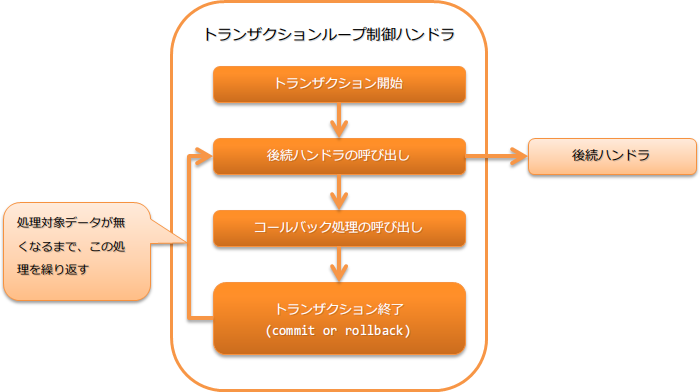
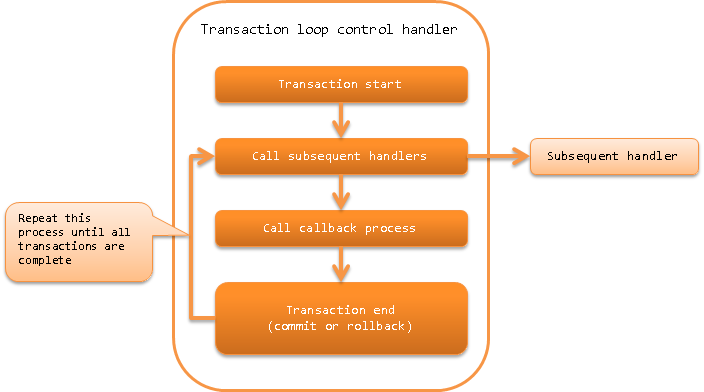
トランザクションループ制御ハンドラページを英語化

diff --git a/en/application_framework/application_framework/handlers/batch/loop_handler.rst b/en/application_framework/application_framework/handlers/batch/loop_handler.rst
@@ -1,28 +1,30 @@
 .. _loop_handler:
 
-トランザクションループ制御ハンドラ
+Transaction Loop Control Handler
 ==================================================
-.. contents:: 目次
+.. contents:: Table of contents
   :depth: 3
   :local:
 
-本ハンドラは、データリーダ上に処理対象のデータが存在する間、後続ハンドラの処理を繰り返し実行するとともに、トランザクション制御を行ない、一定の繰り返し回数ごとにトランザクションをコミットする。
-トランザクションのコミット間隔を大きくすることで、バッチ処理のスループットを向上させることができる。
+This handler, in addition to repeatedly executing the processing of the subsequent handlers,
+performs transaction control, and commits the transaction at a certain number of repetitions,
+while the data to be processed is present in the data reader.
+By increasing the transaction commit interval, it is possible to improve the throughput of batch processing.
 
-* トランザクションの開始
-* トランザクションの終了(コミットやロールバック)
-* トランザクションの終了時のコールバック
+* Start a transaction
+* End a transaction (commit or rollback)
+* Callback at the end of the transaction
 
-処理の流れは以下のとおり。
+The process flow is as follows.
 
 .. image:: ../images/LoopHandler/flow.png
   :scale: 80
 
-ハンドラクラス名
+Handler class name
 --------------------------------------------------
 * :java:extdoc:`nablarch.fw.handler.LoopHandler`
 
-モジュール一覧
+Module list
 --------------------------------------------------
 
 .. code-block:: xml
@@ -37,93 +39,95 @@
     <artifactId>nablarch-core-transaction</artifactId>
   </dependency>
 
-  <!-- データベースに対するトランザクションを制御する場合のみ -->
+  <!-- Only to control transactions to the database -->
   <dependency>
     <groupId>com.nablarch.framework</groupId>
     <artifactId>nablarch-core-jdbc</artifactId>
   </dependency>
 
-制約
+Constraints
 ------------------------------
-:ref:`database_connection_management_handler` より後ろに設定すること
-  データベースに対するトランザクションを制御する場合には、トランザクション管理対象のデータベース接続がスレッド上に存在している必要がある。
+Configure after :ref:`database_connection_management_handler`
+  When controlling a transaction in a database, a database connection for transaction management must exist in the thread.
 
-トランザクション制御対象の設定を行う
+Configure the transaction control target
 --------------------------------------------------
-このハンドラは、 :java:extdoc:`transactionFactory <nablarch.fw.handler.LoopHandler.setTransactionFactory(nablarch.core.transaction.TransactionFactory)>`
-プロパティに設定されたファクトリクラス( :java:extdoc:`TransactionFactory <nablarch.core.transaction.TransactionFactory>` の実装クラス)を使用してトランザクションの制御対象を取得しスレッド上で管理する。
+This handler uses the factory class ( implementation class of :java:extdoc:`TransactionFactory <nablarch.core.transaction.TransactionFactory>`)
+configured in the :java:extdoc:`transactionFactory <nablarch.fw.handler.LoopHandler.setTransactionFactory(nablarch.core.transaction.TransactionFactory)>`
+property to obtain the control target of the transaction and manage it on the thread.
 
-スレッド上で管理する際には、トランザクションを識別するための名前を設定する。
-デフォルトでは、 ``transaction`` が使用されるが、任意の名前を使用する場合は、 :java:extdoc:`transactionName <nablarch.fw.handler.LoopHandler.setTransactionName(java.lang.String)>` プロパティに設定すること。
+When managing on a thread, configure a name to identify the transaction.
+By default, ``transaction`` is used but to use a different name, configure the name in the :java:extdoc:`transactionName <nablarch.fw.handler.LoopHandler.setTransactionName(java.lang.String)>` property.
 
 .. tip::
 
-  :ref:`database_connection_management_handler` で設定したデータベースに対するトランザクション制御を行う場合は、
-  :java:extdoc:`DbConnectionManagementHandler#connectionName <nablarch.common.handler.DbConnectionManagementHandler.setConnectionName(java.lang.String)>` に設定した値と同じ値を
-  :java:extdoc:`transactionName <nablarch.fw.handler.LoopHandler.setTransactionName(java.lang.String)>` プロパティに設定すること。
+  To perform transaction control on the database configured with :ref:`database_connection_management_handler`,
+  configure the same value configured in
+  :java:extdoc:`DbConnectionManagementHandler#connectionName <nablarch.common.handler.DbConnectionManagementHandler.setConnectionName(java.lang.String)>`
+  to :java:extdoc:`transactionName <nablarch.fw.handler.LoopHandler.setTransactionName(java.lang.String)>` property.
 
-  なお、 :java:extdoc:`DbConnectionManagementHandler#connectionName <nablarch.common.handler.DbConnectionManagementHandler.setConnectionName(java.lang.String)>` に値を設定していない場合は、
-  :java:extdoc:`transactionName <nablarch.fw.handler.LoopHandler.setTransactionName(java.lang.String)>` への設定は省略して良い。
+  If a value is not configured in :java:extdoc:`DbConnectionManagementHandler#connectionName <nablarch.common.handler.DbConnectionManagementHandler.setConnectionName(java.lang.String)>`,
+  then the configuration of :java:extdoc:`transactionName <nablarch.fw.handler.LoopHandler.setTransactionName(java.lang.String)>` can be omitted.
 
-以下の設定ファイル例を参考にし、このハンドラの設定を行うこと。
+Configure the handler by referring to the configuration file example given below.
 
 .. code-block:: xml
 
-  <!-- トランザクション制御ハンドラ -->
+  <!-- Transaction control handler -->
   <component class="nablarch.fw.handler.LoopHandler">
     <property name="transactionFactory" ref="databaseTransactionFactory" />
     <property name="transactionName" value="name" />
   </component>
 
-  <!-- データベースに対するトランザクション制御を行う場合には、JdbcTransactionFactoryを設定する -->
+  <!-- When performing the transaction control on the database, configure JdbcTransactionFactory -->
   <component name="databaseTransactionFactory"
       class="nablarch.core.db.transaction.JdbcTransactionFactory">
-    <!-- プロパティの設定は省略 -->
+    <!-- Property configuration is omitted -->
   </component>
 
 .. _loop_handler-commit_interval:
 
-コミット間隔を指定する
+Specify the commit interval
 --------------------------------------------------
-バッチ処理のコミット間隔は、 :java:extdoc:`commitInterval <nablarch.fw.handler.LoopHandler.setCommitInterval(int)>` プロパティに設定する。
-概要で述べたように、コミット間隔を調整することで、バッチ処理のスループットを向上させることができる。
+Configure the commit interval for batch processing to :java:extdoc:`commitInterval <nablarch.fw.handler.LoopHandler.setCommitInterval(int)>`.
+As described in the summary, the throughput of the batch process can be improved by adjusting the commit interval.
 
-以下に設定例を示す。
+A configuration example is shown below.
 
 .. code-block:: xml
 
   <component class="nablarch.fw.handler.LoopHandler">
-    <!-- コミット間隔に1000を指定 -->
+    <!-- Specify 1000 for commit interval -->
     <property name="commitInterval" value="1000" />
   </component>
 
 .. _loop_handler-callback:
 
-トランザクション終了時に任意の処理を実行したい
---------------------------------------------------
-このハンドラでは、後続のハンドラの処理実行後にコールバック処理を行う。
+Execute optional processing at the end of the transaction
+-------------------------------------------------------------------------
+This handler performs a callback process after subsequent handler processes.
 
-コールバックされる処理は、このハンドラより後続に設定されたハンドラの中で、 :java:extdoc:`TransactionEventCallback <nablarch.fw.TransactionEventCallback>` を実装しているものとなる。
-もし、複数のハンドラが  :java:extdoc:`TransactionEventCallback <nablarch.fw.TransactionEventCallback>` を実装している場合は、より手前に設定されているハンドラから順次コールバック処理を実行する。
+The process to be called back is the handler that implements :java:extdoc:`TransactionEventCallback <nablarch.fw.TransactionEventCallback>` among the handlers configured after this handler.
+If multiple handlers implement :java:extdoc:`TransactionEventCallback <nablarch.fw.TransactionEventCallback>`, then the callback process is performed sequentially from the handler that has been configured earlier.
 
-後続ハンドラが正常に処理を終えた場合のコールバック処理は、後続ハンドラと同一のトランザクションで実行される。
-コールバック処理で行った処理は、次回のコミットタイミングで一括コミットされる。
+If a subsequent handler finishes the process normally,
+the callback process is executed in the same transaction as the subsequent handler. The processing performed in the callback process is collectively committed at the timing of the next commit.
 
-後続のハンドラで例外及びエラーが発生し、トランザクションをロールバックする場合には、ロールバック後にコールバック処理を実行する。
-このため、コールバック処理は新しいトランザクションで実行され、コールバックが正常に終了するとコミットされる。
+If an exception or error occurs in the subsequent handlers and the transaction is rolled back,
+the callback process is performed after the rollback. Therefore, the callback process is performed in a new transaction and is committed when the callback has completed successfully.
 
 .. important::
 
-  複数のハンドラがコールバック処理を実装していた場合で、コールバック処理中にエラーや例外が発生した場合は、
-  残りのハンドラに対するコールバック処理は実行しないため注意すること。
+  Note that if multiple handlers have implemented the callback process and an error or exception occurs during the callback process,
+  the callback process for the remaining handlers is not performed.
 
-以下に例を示す。
+An example is shown below.
 
-コールバック処理を行うハンドラの作成
-  以下実装例のように、  :java:extdoc:`TransactionEventCallback <nablarch.fw.TransactionEventCallback>` を実装したハンドラを作成する。
+Creating a handler that performs the callback process
+  Create a handler that implements :java:extdoc:`TransactionEventCallback <nablarch.fw.TransactionEventCallback>` as shown in the following implementation example.
 
-  :java:extdoc:`transactionNormalEnd <nablarch.fw.TransactionEventCallback.transactionNormalEnd(TData-nablarch.fw.ExecutionContext)>` にトランザクションコミット時のコールバック処理を実装し、
-  :java:extdoc:`transactionAbnormalEnd <nablarch.fw.TransactionEventCallback.transactionAbnormalEnd(java.lang.Throwable-TData-nablarch.fw.ExecutionContext)>` にトランザクションロールバック時のコールバック処理を実装する。
+  Implement the callback process at the time of transaction commit in :java:extdoc:`transactionNormalEnd <nablarch.fw.TransactionEventCallback.transactionNormalEnd(TData-nablarch.fw.ExecutionContext)>`,
+  and implement the callback process at the time of transaction rollback in :java:extdoc:`transactionAbnormalEnd <nablarch.fw.TransactionEventCallback.transactionAbnormalEnd(java.lang.Throwable-TData-nablarch.fw.ExecutionContext)>`.
 
   .. code-block:: java
 
@@ -132,32 +136,32 @@
 
       @Override
       public Object handle(Object o, ExecutionContext context) {
-        // ハンドラの処理を実装する
+        // Implement handler processing
         return context.handleNext(o);
       }
 
       @Override
       public void transactionNormalEnd(Object o, ExecutionContext ctx) {
-        // 後続ハンドラが正常終了した場合のコールバック処理を実装する
+        // Implements rollback process if the subsequent handler ends normally
       }
 
       @Override
       public void transactionAbnormalEnd(Throwable e, Object o, ExecutionContext ctx) {
-        // トランザクションロールバック時のコールバック処理を実装する
+        // Implement callback process during transaction rollback
       }
     }
 
-ハンドラキューを構築する
-  以下のように、このハンドラの後続ハンドラにコールバック処理を実装したハンドラを設定する。
+Build a handler queue
+  Configure the handler that implements callback process in the subsequent handler of this handler as follows.
 
   .. code-block:: xml
 
     <list name="handlerQueue">
-      <!-- トランザクション制御ハンドラ -->
+      <!-- Transaction control handler -->
       <component class="nablarch.fw.handler.LoopHandler">
-        <!-- プロパティへの設定は省略 -->
+        <!-- Configuration of property is omitted -->
       </component>
 
-      <!-- コールバック処理を実装したハンドラ -->
+      <!-- Handler that implements callback process -->
       <component class="sample.SampleHandler" />
     </list>

diff --git a/en/application_framework/application_framework/handlers/batch/index.rst b/en/application_framework/application_framework/handlers/batch/index.rst
@@ -1,4 +1,4 @@
-バッチアプリケーション専用ハンドラ
+Batch Application Dedicated Handler
 ==================================================
 
  .. toctree::
